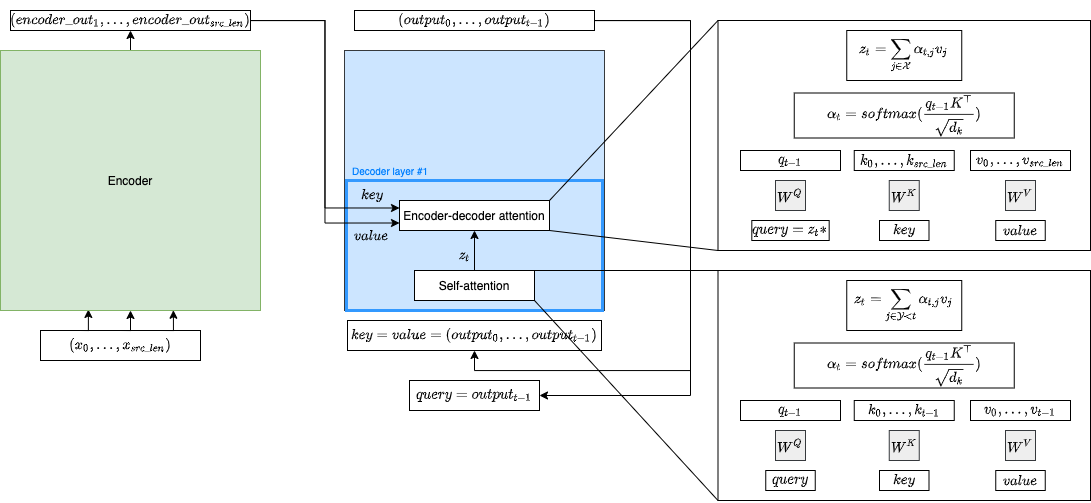
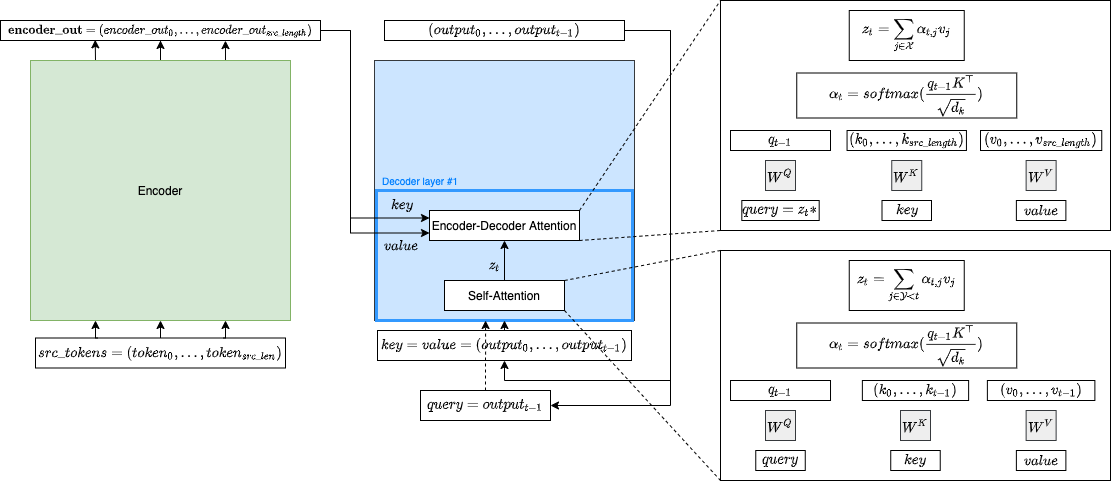
update decoder

Changed region(s): [[0.0, 0.0, 1.0, 1.0], [0.0935, 0.3423, 0.187, 0.4046], [0.5921, 0.8402, 0.6233, 0.9025]]

diff --git a/index.html b/index.html
@@ -11840,7 +11840,7 @@ $( document ).ready(function(){
 </div>
 <div class="inner_cell">
 <div class="text_cell_render border-box-sizing rendered_html">
-<p>The Transformer is based on a stack of encoders and another stack of decoders. The encoder maps an input sequence of token representations $(x_1, ..., x_n)$ to a sequence of continuous representations $\mathbf{encoder\_out} = (encoder\_out_1, ..., encoder\_out_n)$. Given $\mathbf{encoder\_out}$, the decoder then generates an output sequence $(y_1,...,y_m)$ of symbols one element at a time. At each step the model is auto-regressive, consuming the previously generated symbols as additional input when generating the next token.</p>
+<p>The Transformer is based on a stack of encoders and another stack of decoders. The encoder maps an input sequence of token representations $(x_1, ..., x_{src\_length})$ to a sequence of continuous representations $\mathbf{encoder\_out} = (encoder\_out_1, ..., encoder\_out_{src\_length})$. Given $\mathbf{encoder\_out}$, the decoder then generates an output sequence $\mathcal{Y} = (output_0,...,output_{tgt\_length})$ of symbols one element at a time. At each step the model is auto-regressive, consuming the previously generated symbols as additional input when generating the next token.</p>
 
 </div>
 </div>
@@ -11919,7 +11919,7 @@ $( document ).ready(function(){
 <div class="inner_cell">
 <div class="text_cell_render border-box-sizing rendered_html">
 <h2 id="Encoder">Encoder<a class="anchor-link" href="#Encoder">&#182;</a></h2><p>The encoder (<code class="language-plaintext highlighter-rouge">TransformerEncoder</code>) is composed of a stack of $N=encoder\_layers$ identical layers.</p>
-<p>The bottom encoder layer recieves <code class="language-plaintext highlighter-rouge">x = self.forward_embedding(src_tokens, token_embeddings)</code>, which is the sum of the (scaled) embedding lookup and the positional embedding: <code class="language-plaintext highlighter-rouge">x = embed + self.embed_positions(src_tokens)</code>.</p>
+<p>The encoder recieves a list of tokens $src\_tokens=(token_{0},...,token_{src\_len})$ which are then converted to continuous vector representions <code class="language-plaintext highlighter-rouge">x = self.forward_embedding(src_tokens, token_embeddings)</code>, which is the sum of the (scaled) embedding lookup and the positional embedding: <code class="language-plaintext highlighter-rouge">x = embed + self.embed_positions(src_tokens)</code>.</p>
 
 </div>
 </div>
@@ -11937,7 +11937,7 @@ $( document ).ready(function(){
 </div>
 <div class="inner_cell">
 <div class="text_cell_render border-box-sizing rendered_html">
-<p>The encoder layers that follow receive the previous encoder's layer output.</p>
+<p>From now on, let's consider $\mathcal{X}^L = (x_{0},\cdots,x_{src\_length})$ as the $L$ encoder layer input. $X^{1}$ refers then to the vectors representation of the input sequence tokens of the first layer, after computing <code class="language-plaintext highlighter-rouge">self.forward_embedding</code>. Note that although $\mathcal{X}^L$ is represented in fairseq as a tensor of shape <code class="language-plaintext highlighter-rouge">src_length x batch x encoder_embed_dim</code>, for the shake of simplicity, we omit the second dimension in the upcoming mathematical notation and just consider it as a <code class="language-plaintext highlighter-rouge">src_length x encoder_embed_dim</code> matrix.</p>
 
 </div>
 </div>
@@ -11999,7 +11999,7 @@ $( document ).ready(function(){
 <div class="text_cell_render border-box-sizing rendered_html">
 <p>This returns a NamedTuple object <code class="language-plaintext highlighter-rouge">encoder_out</code>.</p>
 <ul>
-<li>encoder_out: of shape <code class="language-plaintext highlighter-rouge">src_length x batch x encoder_embed_dim</code>, the last layer encoder's embedding which, as we will see, is used by the Decoder.</li>
+<li>encoder_out: of shape <code class="language-plaintext highlighter-rouge">src_length x batch x encoder_embed_dim</code>, the last layer encoder's embedding which, as we will see, is used by the Decoder. Note that is the same as $\mathcal{X}^{N+1}$.</li>
 <li>encoder_padding_mask: of shape <code class="language-plaintext highlighter-rouge">batch x src_length</code>. Binary ByteTensor where padding elements are indicated by 1.</li>
 <li>encoder_embedding: of shape <code class="language-plaintext highlighter-rouge">src_length x batch x encoder_embed_dim</code>, the words (scaled) embedding lookup.</li>
 <li>encoder_states: of shape <code class="language-plaintext highlighter-rouge">list[src_length x batch x encoder_embed_dim]</code>, intermediate enocoder layer's output.</li>
@@ -12179,7 +12179,7 @@ $( document ).ready(function(){
 </div>
 <div class="inner_cell">
 <div class="text_cell_render border-box-sizing rendered_html">
-<p>Each encoder layer input, entered as <code class="language-plaintext highlighter-rouge">query</code>, is multiplied by three weight matrices learned during the training process: $W^{Q}, W^{K}$ and $W^{V}$, obtaining $Q$, $K$ and $V$. Each row of this output matrices represents the query, key and value vectors of each token in the sequence, represented as $q$, $k$ and $v$ in the formulas that follow.</p>
+<p>Each encoder layer input $\mathcal{X}^L$, shown as <code class="language-plaintext highlighter-rouge">query</code>below since three copies of $query$ are passed to the self-attention module, is multiplied by three weight matrices learned during the training process: $W^{Q}, W^{K}$ and $W^{V}$, obtaining $Q$, $K$ and $V$. Each row of this output matrices represents the query, key and value vectors of each token in the sequence, represented as $q$, $k$ and $v$ in the formulas that follow.</p>
 
 </div>
 </div>
@@ -12230,10 +12230,10 @@ $$</p>
 </div>
 <div class="inner_cell">
 <div class="text_cell_render border-box-sizing rendered_html">
-<p>Given a token in the input sequence, $i \in \mathcal{X}$, its query vector $q_{i}$ is passed to the self-attention function. Then, by means of dot products, scalar values (scores) are obtained between the query vector $q_{i}$ and every key vector of the input sequence $k_{j} \forall j \in \mathcal{X}$. The intuition is that this performs a similarity operation, similar queries and keys vectors will yield higher score.</p>
-<p>This scores represents how much attention is paid by the self-attention layer to other parts of the sequence when encoding $i$. By multiplying $q_{i}$ by the matrix $K^{T}$, a list of <code class="language-plaintext highlighter-rouge">src_len</code> scores is output. The scores are then passed through a softmax function giving bounded values:</p>
+<p>Given a token in the input sequence, $i \in \mathcal{X}^L$, its query vector $q_{i}$ is passed to the self-attention function. Then, by means of dot products, scalar values (scores) are obtained between the query vector $q_{i}$ and every key vector of the input sequence $k_{j} \forall j \in \mathcal{X}^L$. The intuition is that this performs a similarity operation, similar queries and keys vectors will yield higher scores.</p>
+<p>This scores represents how much attention is paid by the self-attention layer to other parts of the sequence when encoding $i$. By multiplying $q_{i}$ by the matrix $K^{T}$, a list of <code class="language-plaintext highlighter-rouge">src_length</code> scores is output. The scores are then passed through a softmax function giving bounded values:</p>
 <p>$$\alpha_{i} = \text{softmax}(\frac{\mathbf{q}_i {K}^\top}{\sqrt{d_k}})
-= \frac{\exp(\frac{\mathbf{q}_i {K}^\top}{\sqrt{d_k}})}{ \sum_{j \in \mathcal{X}} \exp(\frac{\mathbf{q}_i k_{j}^\top}{\sqrt{d_k}})}$$</p>
+= \frac{\exp(\frac{\mathbf{q}_i {K}^\top}{\sqrt{d_k}})}{ \sum_{j \in \mathcal{X}^L} \exp(\frac{\mathbf{q}_i k_{j}^\top}{\sqrt{d_k}})}$$</p>
 
 </div>
 </div>
@@ -12365,7 +12365,7 @@ $$</p>
 <div class="inner_cell">
 <div class="text_cell_render border-box-sizing rendered_html">
 <h2 id="Decoder">Decoder<a class="anchor-link" href="#Decoder">&#182;</a></h2><p>The decoder is composed of a stack of $N=decoder\_layers$ identical layers.</p>
-<p>The <code class="language-plaintext highlighter-rouge">TransformerDecoder</code> inherits from <code class="language-plaintext highlighter-rouge">FairseqIncrementalDecoder</code>. It differs from the encoder in that it performs incremental decoding. This means that at each time step a forward pass is done through the decoder generating one output token, which is then fed as input to the next time step decoding forward process. Especifically, it takes the encoder's output <code class="language-plaintext highlighter-rouge">encoder_out.encoder_out</code> as $K$ and $V$ matrices (in every decoder layer) and <code class="language-plaintext highlighter-rouge">prev_output_tokens</code> to generate one feature vector per target token at each time step (<code class="language-plaintext highlighter-rouge">tgt_len = 1</code> in each forward pass). This feature vector is then passed through a linear layer together with a softmax activation function <code class="language-plaintext highlighter-rouge">self.output_layer(x)</code> to get a probability distribution over the target language vocabulary.</p>
+<p>The <code class="language-plaintext highlighter-rouge">TransformerDecoder</code> inherits from <code class="language-plaintext highlighter-rouge">FairseqIncrementalDecoder</code>. It differs from the encoder in that it performs incremental decoding. This means that at each time step a forward pass is done through the decoder generating one output token, which is then fed as input to the next time step decoding forward process. Especifically, it takes the encoder's output <code class="language-plaintext highlighter-rouge">encoder_out.encoder_out</code> as $key$ and $value$ matrices (in every decoder layer) and <code class="language-plaintext highlighter-rouge">prev_output_tokens</code> to generate one feature vector per target token at each time step (<code class="language-plaintext highlighter-rouge">tgt_len = 1</code> in each forward pass). This feature vector is then passed through a linear layer together with a softmax activation function <code class="language-plaintext highlighter-rouge">self.output_layer(x)</code> to get a probability distribution over the target language vocabulary.</p>
 <p>Following the beam search algorithm, top <code class="language-plaintext highlighter-rouge">beam</code> hypothesis are chosen and inserted as input of the decoder (<code class="language-plaintext highlighter-rouge">prev_output_tokens</code>) for the next time step.</p>
 
 </div>
@@ -12551,7 +12551,7 @@ $$</p>
 </div>
 <div class="inner_cell">
 <div class="text_cell_render border-box-sizing rendered_html">
-<p>In addition to the two sub-layers in each encoder layer, the decoder inserts a third sub-layer (Encoder-Decoder Attention), which performs multi-head attention over the output of the encoder stack as $K$ and $V$ matrices and the ouput of the self-attention module.  Similar to the encoder, it employs residual connections around each of the sub-layers, followed by layer normalization.</p>
+<p>In addition to the two sub-layers in each encoder layer, the decoder inserts a third sub-layer (Encoder-Decoder Attention), which performs multi-head attention over the output of the encoder stack as $key$ and $value$ matrices and the ouput of the self-attention module.  Similar to the encoder, it employs residual connections around each of the sub-layers, followed by layer normalization.</p>
 
 </div>
 </div>
@@ -12606,8 +12606,8 @@ $$</p>
 </div>
 <div class="inner_cell">
 <div class="text_cell_render border-box-sizing rendered_html">
-<p>In the decoder self-attention module, <code class="language-plaintext highlighter-rouge">prev_output_tokens</code> enter as key and value vectors. However only the last time step output token enters as a query vector. So, query vectors now have one element in the second dimension, that is, there is no need to use matrix $Q$, intead incremental decoding uses $q_{t}$, the $t-1$ output of the decoder that enters as query vector at time step $t$.
-As before, scalar values (scores) are obtained between the query vector $q_{t}$ and every key vector of the whole previous tokens sequence $k_{j} \forall j \in \mathcal{X}$.</p>
+<p>During incremental decoding, <code class="language-plaintext highlighter-rouge">prev_output_tokens</code> $(output_{0},...,output_{t-1})$ enter the self-attention module as key and value vectors. However, only the last time step output token, $output_{t-1}$, enters as a query vector. So, query vectors now have one element in the second dimension, that is, there is no need to use matrix $Q$.
+As before, scalar values (scores) are obtained between the query vector $q_{t-1}$ and every key vector of the whole previous tokens sequence $k_{j} \forall j \in \mathcal{Y&lt;t}$, where $\mathcal{Y}$ represents the decoder output sequence.</p>
 
 </div>
 </div>
@@ -12616,7 +12616,7 @@ As before, scalar values (scores) are obtained between the query vector $q_{t}$ 
 </div>
 <div class="inner_cell">
 <div class="text_cell_render border-box-sizing rendered_html">
-<p><img src="The_Transformer_Blog_files/incremental_decoding.png"  style="width:900px;height:400px;" align="center"/></p>
+<p><img src="The_Transformer_Blog_files/incremental_decoding.png"   align="center"/></p>
 
 </div>
 </div>
@@ -12628,7 +12628,7 @@ As before, scalar values (scores) are obtained between the query vector $q_{t}$ 
 <p>$$
 z_{t} = \sum_{j \in \mathcal{Y&lt;t}}\alpha_{t,j}v_{j}
 $$</p>
-<p>Now, just one vector $z_{t}$ is generated at each time step by each head.</p>
+<p>Now, just one vector $z_{t}$ is generated at each time step by each head as a weighted average of the $v$ vectors. The</p>
 
 </div>
 </div>
